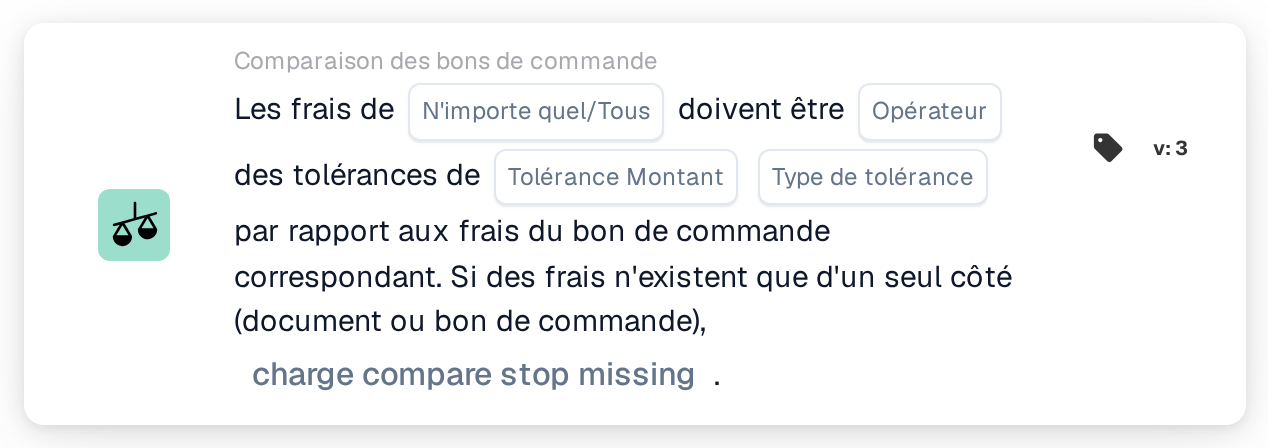
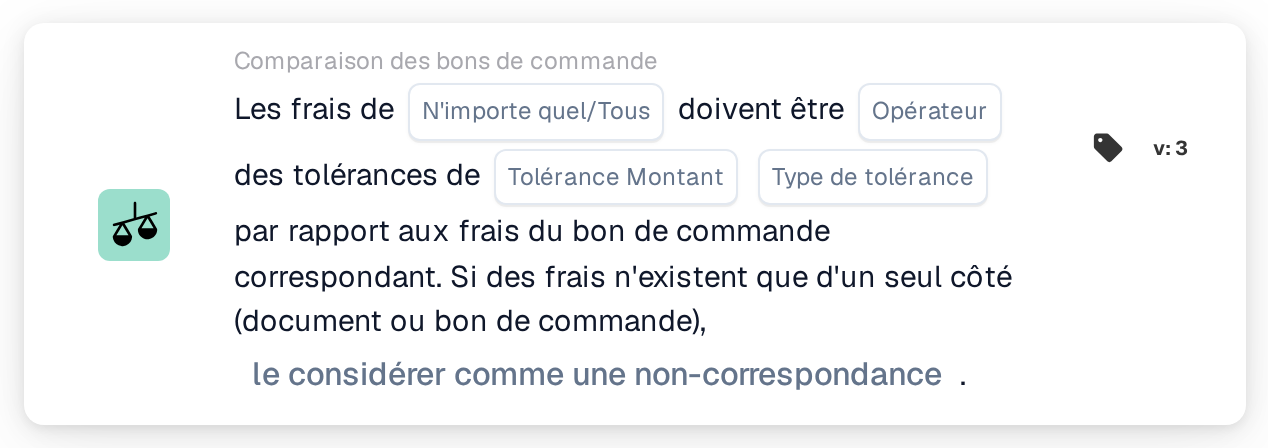
[Documentation_Workflow_Cards] [DRFS-871] add compare charges to po v4

Changed region(s): [[0.1845, 0.8125, 0.7382, 0.875]]

diff --git a/public_docs/administration-and-setup/workflow/and/compare-with-purchase-order/any-all-charges.md b/public_docs/administration-and-setup/workflow/and/compare-with-purchase-order/any-all-charges.md
@@ -4,13 +4,15 @@
 
 <figure><img src="../../../../.gitbook/assets/workflow_card_condition_compare_charges_to_po_v3-fr-fr.png" alt="Tous les frais, Version 3" width="634"><figcaption><p>Version 3</p></figcaption></figure>
 
+<figure><img src="../../../../.gitbook/assets/workflow_card_condition_compare_charges_to_po_v4-fr-fr.png" alt="Comparaison des bons de commande : Les frais de N&#x27;importe quel/Tous doivent être Opérateur des tolérances de Tolérance Montant Type de tolérance par rapport aux frais du bon de commande correspondant; des frais de 0,00 sont également comparés. Si des frais n&#x27;existent que d&#x27;un seul côté (document ou bon de commande), le considérer comme une non-correspondance, Version 4" width="634"><figcaption><p>Version 4</p></figcaption></figure>
+
 ## **Objectif :**
 
-Cette carte de workflow compare les frais annexes d'un document aux frais annexes du bon de commande correspondant, dans une tolérance définie. Elle répond à une seule question : le document et le bon de commande sont-ils d'accord sur les frais annexes ? Chaque frais que le rapprochement de bon de commande a apparié est comparé, si bien qu'aucun nom de champ n'a à être indiqué sur la carte.
+Cette carte de Workflow compare les frais annexes d'un document aux frais annexes du bon de commande correspondant, dans une tolérance définie. Elle répond à une seule question : le document et le bon de commande sont-ils d'accord sur les frais annexes ? Chaque frais que le rapprochement de bon de commande a apparié est comparé, si bien qu'aucun nom de champ n'a à être indiqué sur la carte.
 
 Cette carte se distingue de **Comparer les frais totaux**, qui compare un seul champ de document nommé à un frais unique désigné par un Charge ID. Utilisez cette carte lorsque tous les frais appariés du document doivent être vérifiés en une fois.
 
-Le rapprochement de bon de commande doit s'exécuter avant cette carte. Si le document n'a pas de bon de commande correspondant, la carte arrête le workflow et signale des données manquantes.
+Le rapprochement de bon de commande doit s'exécuter avant cette carte. Si le document n'a pas de bon de commande correspondant, la carte arrête le Workflow et signale des données manquantes.
 
 ## **Composants de la carte :**
 
@@ -31,11 +33,11 @@ Le rapprochement de bon de commande doit s'exécuter avant cette carte. Si le do
    * **Possibilités** :
      * **Pour cent** : un pourcentage du frais du bon de commande.
      * **Valeur** : un montant fixe.
-5. **Comportement lié aux données manquantes (version 3 uniquement) :**
-   * **Descriptif** : Ce qu'il faut faire lorsqu'un frais n'existe que d'un seul côté, sur le document ou sur le bon de commande, de sorte qu'il n'y a aucun homologue auquel le comparer. L'option se trouve à la fin de la phrase de la version 3.
+5. **Comportement lié aux données manquantes (versions 3 et 4) :**
+   * **Descriptif** : Ce qu'il faut faire lorsqu'un frais n'existe que d'un seul côté, sur le document ou sur le bon de commande, de sorte qu'il n'y a aucun homologue auquel le comparer. L'option se trouve à la fin de la phrase.
    * **Possibilités** :
-     * **le considérer comme une non-correspondance** : le workflow s'arrête. C'est la valeur par défaut.
-     * **l'ignorer et le considérer comme correspondant** : le workflow continue comme si le frais avait concordé.
+     * **le considérer comme une non-correspondance** : le Workflow s'arrête. C'est la valeur par défaut.
+     * **l'ignorer et le considérer comme correspondant** : le Workflow continue comme si le frais avait concordé.
 
 ## **Fonctionnalité :**
 
@@ -43,42 +45,58 @@ La carte déroule les étapes suivantes.
 
 1. **Elle exige un bon de commande correspondant.** Sans bon de commande correspondant, la carte s'arrête immédiatement et signale des données manquantes.
 2. **Elle lit la tolérance** depuis **Tolérance Montant** et **Type de tolérance** sur la carte.
-3. **La version 3 trie chaque ligne de bon de commande appariée** dans l'une de quatre situations, en demandant seulement si chaque côté porte le moindre frais : frais des deux côtés, aucun frais d'aucun côté, frais uniquement sur le document, ou frais uniquement sur le bon de commande. Une ligne qui ne peut pas être rattachée aux données de bon de commande du document est une erreur de données et la carte s'arrête.
+3. **Les versions 3 et 4 trient chaque ligne de bon de commande appariée** dans l'une de quatre situations : frais des deux côtés, aucun frais d'aucun côté, frais uniquement sur le document, ou frais uniquement sur le bon de commande. La version 3 demande seulement si chaque côté porte un frais supérieur à 0,00. La version 4 examine chaque paire de frais et compte 0,00 comme une valeur ; seul un frais sans aucun montant compte comme manquant. Voir **Différences entre les versions** ci-dessous. Une ligne qui ne peut pas être rattachée aux données de bon de commande du document est une erreur de données et la carte s'arrête.
 4. **Un frais présent d'un seul côté décide de toute la carte.** Dès qu'une ligne appariée porte des frais d'un côté et aucun de l'autre, **Comportement lié aux données manquantes** décide du résultat et aucun frais n'est comparé du tout, y compris les frais des lignes correctement appariées. L'opérateur et la tolérance ne sont pas consultés.
-5. **Si aucune ligne ne porte de frais d'aucun des deux côtés**, les deux côtés s'accordent sur l'absence de frais annexes. L'opérateur **A l'extérieur** n'est donc pas satisfait, puisque rien ne diffère au-delà de la tolérance, et le workflow s'arrête. Tout autre opérateur considère l'accord comme satisfait et le workflow continue. **Comportement lié aux données manquantes** n'a aucun effet ici.
+5. **Si aucune ligne ne porte de frais d'aucun des deux côtés**, les deux côtés s'accordent sur l'absence de frais annexes. L'opérateur **A l'extérieur** n'est donc pas satisfait, puisque rien ne diffère au-delà de la tolérance, et le Workflow s'arrête. Tout autre opérateur considère l'accord comme satisfait et le Workflow continue. **Comportement lié aux données manquantes** n'a aucun effet ici.
 6. **Sinon chaque frais est comparé**, montant du document contre montant du bon de commande, avec l'opérateur et la tolérance. Un montant de frais qui n'est pas un nombre arrête la carte avec des données manquantes.
-7. **Les comparaisons sont regroupées et fusionnées une seule fois.** Chaque frais de chaque ligne appariée contribue à un unique ensemble de résultats, que le réglage **N'importe quel/Tous** réduit à l'unique résultat de la carte. Le regroupement est à l'échelle du document, non par ligne, de sorte que **N'importe quel** signifie n'importe quel frais à n'importe quel endroit du document. Si le résultat fusionné est vrai, le workflow continue, sinon il s'arrête sur une condition non satisfaite.
+7. **Les comparaisons sont regroupées et fusionnées une seule fois.** Chaque frais de chaque ligne appariée contribue à un unique ensemble de résultats, que le réglage **N'importe quel/Tous** réduit à l'unique résultat de la carte. Le regroupement est à l'échelle du document, non par ligne, de sorte que **N'importe quel** signifie n'importe quel frais à n'importe quel endroit du document. Si le résultat fusionné est vrai, le Workflow continue, sinon il s'arrête sur une condition non satisfaite.
 
 Trois conséquences méritent d'être connues avant de configurer la carte.
 
 * **dans avec une tolérance de 0 exige une égalité exacte.** Les deux montants doivent concorder au centime.
 * **Un frais présent d'un seul côté prime sur tout le reste.** Comme l'étape 4 s'exécute avant toute comparaison, **l'ignorer et le considérer comme correspondant** saute aussi la vérification des montants de chaque frais correctement apparié du document. Conservez **le considérer comme une non-correspondance** si les montants doivent être vérifiés.
-* **le considérer comme une non-correspondance arrête le workflow en erreur, non sur une condition non satisfaite.** Malgré la formulation, la carte signale des données manquantes, ce que le journal du workflow et le test de carte affichent en rouge et non en orange comme une condition non satisfaite. Le workflow s'arrête dans les deux cas.
+* **le considérer comme une non-correspondance arrête le Workflow en erreur, non sur une condition non satisfaite.** Malgré la formulation, la carte signale des données manquantes, ce que le journal du Workflow et le test de carte affichent en rouge et non en orange comme une condition non satisfaite. Le Workflow s'arrête dans les deux cas.
 
 ## **Installation et configuration :**
 
-Ajoutez la carte comme condition And après le rapprochement de bon de commande. Choisissez si chaque frais ou n'importe quel frais doit satisfaire la comparaison, choisissez l'opérateur **dans** ou **A l'extérieur**, puis saisissez le montant et le type de tolérance. En version 3, choisissez ce qui doit se produire lorsque des frais n'apparaissent que d'un seul côté.
+Ajoutez la carte comme condition And après le rapprochement de bon de commande. Choisissez si chaque frais ou n'importe quel frais doit satisfaire la comparaison, choisissez l'opérateur **dans** ou **A l'extérieur**, puis saisissez le montant et le type de tolérance. En versions 3 et 4, choisissez ce qui doit se produire lorsque des frais n'apparaissent que d'un seul côté.
 
 Pour essayer une configuration sans attendre un document, ouvrez le menu de la carte dans le Workflow Builder, choisissez **Tester la carte**, choisissez un document puis **Tester avec ce document**. Le journal de la carte énumère chaque frais comparé avec les deux montants, l'opérateur et la tolérance utilisée, et note aussi quelle valeur de **Comportement lié aux données manquantes** a décidé du résultat lorsqu'un frais n'était présent que d'un seul côté.
 
 ## **Exemple de scénario :**
 
-Une confirmation de commande porte des frais de transport de 100,00 et la ligne de bon de commande correspondante porte les mêmes frais de transport de 100,00. Avec **Tous**, l'opérateur **dans** et une tolérance de 0 en valeur, les montants sont égaux, la carte est satisfaite et le workflow continue.
+Une confirmation de commande porte des frais de transport de 100,00 et la ligne de bon de commande correspondante porte les mêmes frais de transport de 100,00. Avec **Tous**, l'opérateur **dans** et une tolérance de 0 en valeur, les montants sont égaux, la carte est satisfaite et le Workflow continue.
 
-Avec 120,00 sur la confirmation de commande contre 100,00 sur le bon de commande, la même configuration n'est pas satisfaite et le workflow s'arrête sur une condition non satisfaite.
+Avec 120,00 sur la confirmation de commande contre 100,00 sur le bon de commande, la même configuration n'est pas satisfaite et le Workflow s'arrête sur une condition non satisfaite.
 
-Si ni la confirmation de commande ni le bon de commande ne porte de frais, l'opérateur **dans** considère cela comme un accord et le workflow continue, tandis que **A l'extérieur** l'arrête.
+Si ni la confirmation de commande ni le bon de commande ne porte de frais, l'opérateur **dans** considère cela comme un accord et le Workflow continue, tandis que **A l'extérieur** l'arrête.
 
-Si la confirmation de commande porte des frais de transport et le bon de commande aucun, l'opérateur ne s'applique plus. Avec **le considérer comme une non-correspondance**, le workflow s'arrête afin que quelqu'un puisse vérifier pourquoi les frais ne figurent que d'un seul côté.
+Si la confirmation de commande porte des frais de transport et le bon de commande aucun, l'opérateur ne s'applique plus. Avec **le considérer comme une non-correspondance**, le Workflow s'arrête afin que quelqu'un puisse vérifier pourquoi les frais ne figurent que d'un seul côté.
+
+Si la confirmation de commande indique les frais de transport à 0,00 alors que le bon de commande porte 204,00, la version 4 compare les deux montants et le Workflow s'arrête sur une condition non satisfaite. La version 3 lirait le 0,00 comme « aucun frais sur le document » et laisserait **Comportement lié aux données manquantes** décider du résultat.
 
 ## **Différences entre les versions :**
 
-La version 3 est celle des nouvelles cartes. La version 2 reste prise en charge dans les workflows existants. Les deux versions comparent frais par frais et fusionnent les résultats à l'échelle du document avec le réglage **N'importe quel/Tous**, mais la version 2 n'a pas de classement par cas, ce qui change ce qui se produit dès que des frais ne sont pas présents des deux côtés :
+La version 4 est celle des nouvelles cartes. Les versions 2 et 3 restent prises en charge dans les Workflows existants.
+
+### Version 4 comparée à la version 3
+
+Les deux versions ont les mêmes réglages et les mêmes étapes. Elles ne diffèrent que par le traitement d'un frais de 0,00 :
+
+* **La version 3 traite 0,00 comme une absence de frais.** Un frais de document de 0,00 apparié à un frais de bon de commande de 204,00 compte comme « le bon de commande a des frais, le document n'en a pas », si bien que **Comportement lié aux données manquantes** décide et que les montants ne sont jamais comparés. Avec **l'ignorer et le considérer comme correspondant**, le Workflow continue, bien que les montants diffèrent.
+* **La version 4 compare 0,00 comme un montant.** La même paire est comparée comme n'importe quelle autre : 0,00 contre 204,00 n'est pas dans la tolérance, donc le Workflow s'arrête sur une condition non satisfaite. Une paire avec 0,00 des deux côtés est comparée aussi et concorde.
+* **Un frais sans montant reste manquant en version 4.** Lorsqu'un côté d'une paire n'a aucun montant, par exemple un frais que le bon de commande ne porte pas, **Comportement lié aux données manquantes** décide, comme en version 3.
+
+Pour obtenir ce comportement dans un Workflow existant, remplacez la carte en version 3 par une carte en version 4 et saisissez les mêmes valeurs.
+
+### Version 2
+
+La version 2 compare elle aussi frais par frais et fusionne les résultats à l'échelle du document avec le réglage **N'importe quel/Tous**, mais elle n'a pas de classement par cas, ce qui change ce qui se produit dès que des frais ne sont pas présents des deux côtés :
 
 * La version 2 n'a pas d'option **Comportement lié aux données manquantes**. Sa phrase se termine après le type de tolérance.
-* La version 2 ne trie pas les lignes appariées et ne reconnaît donc pas un frais qui n'existe que d'un seul côté. Elle compare le montant présent au 0,00 retenu pour le côté manquant, et l'opérateur décide : **dans** n'est pas satisfait et le workflow s'arrête, **A l'extérieur** est satisfait et le workflow continue. Le journal de la carte montre la comparaison contre 0,00.
+* La version 2 ne trie pas les lignes appariées et ne reconnaît donc pas un frais qui n'existe que d'un seul côté. Elle compare le montant présent au 0,00 retenu pour le côté manquant, et l'opérateur décide : **dans** n'est pas satisfait et le Workflow s'arrête, **A l'extérieur** est satisfait et le Workflow continue. Le journal de la carte montre la comparaison contre 0,00.
 * Si aucun des deux côtés ne porte de frais, la version 2 n'a rien à comparer et signale des données manquantes au lieu de considérer l'absence des deux côtés comme un accord.
 
 ## **Conclusion :**
 
-La carte « Any / All Charges » automatise la vérification que les frais annexes facturés ou confirmés correspondent aux frais annexes commandés. Comme l'absence de frais des deux côtés vaut accord en version 3, les documents sans frais annexes passent sans intervention manuelle, tandis que les frais n'apparaissant que d'un seul côté sont retenus pour vérification, sauf si cela est délibérément autorisé.
+La carte « Any / All Charges » automatise la vérification que les frais annexes facturés ou confirmés correspondent aux frais annexes commandés. Comme l'absence de frais des deux côtés vaut accord en versions 3 et 4, les documents sans frais annexes passent sans intervention manuelle, tandis que les frais n'apparaissant que d'un seul côté sont retenus pour vérification, sauf si cela est délibérément autorisé.
